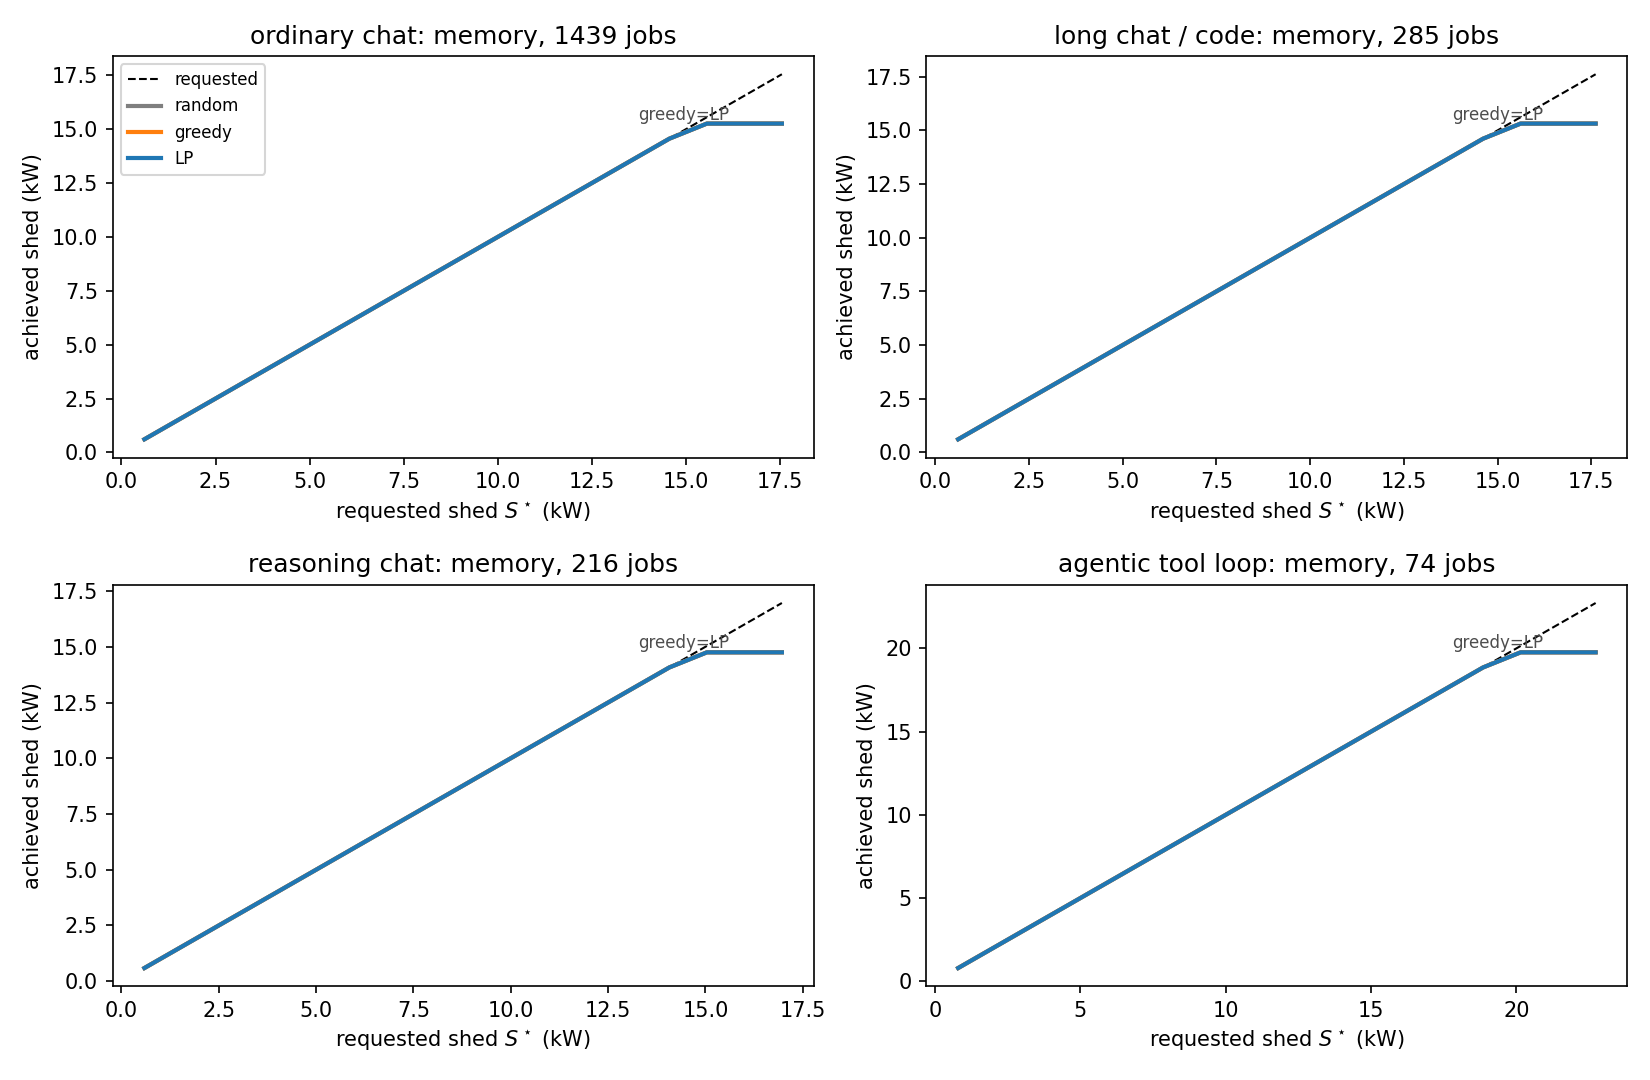
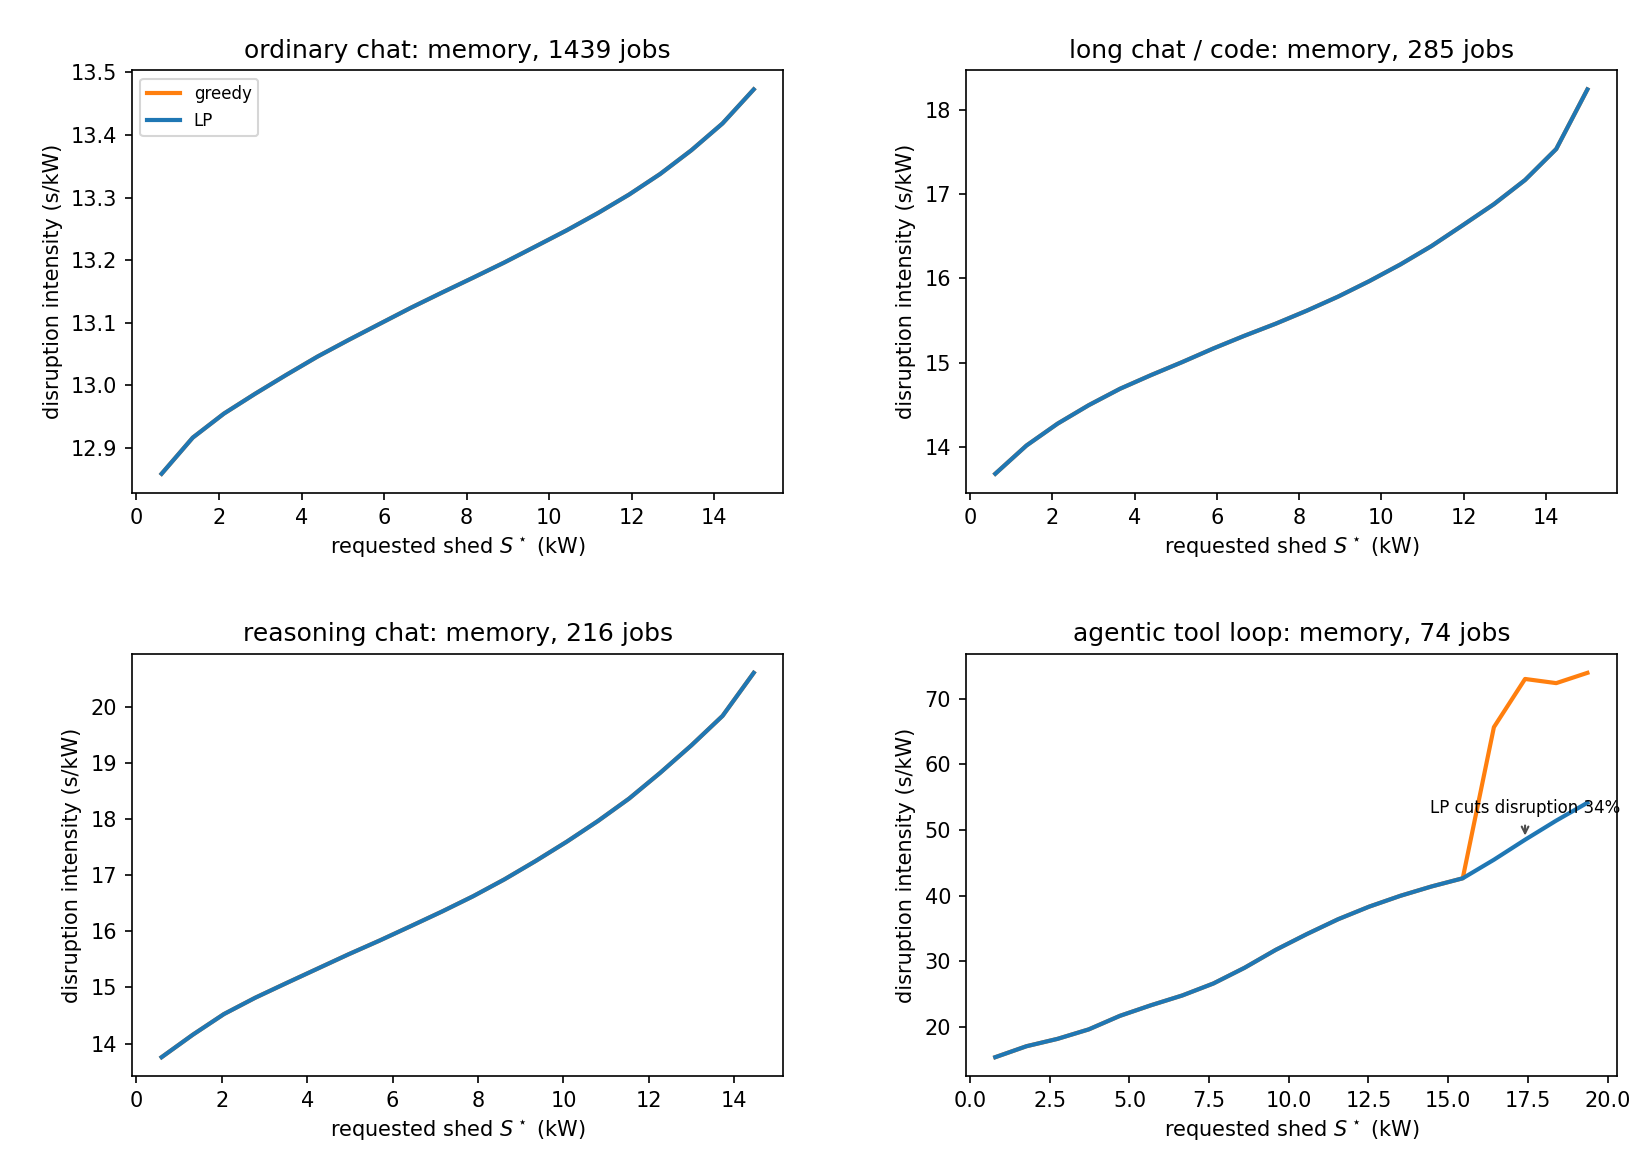
Normalize queue haul dispatch disruption

diff --git a/agent-migrate/queue-haul/plot_dispatch_validation.py b/agent-migrate/queue-haul/plot_dispatch_validation.py
@@ -1,9 +1,9 @@
 """Dispatch validation by workload class.
 
-Each panel isolates one active, cache-resident session class. The policies see
-the same movement budgets: random, decentralized greedy, and coordinated LP.
-The plot is a sanity check: after fallback accounting, ceiling gaps should only
-appear when shared-resource packing, not a partial-action artifact, limits greedy.
+Each panel isolates one active, cache-resident session class. Greedy and LP see
+the same movement budgets. The y-axis is aggregate downtime normalized by the
+requested certified shed, i.e. seconds of disruption per kW. Achieved-shed curves
+can hide the objective value whenever both policies meet the same target.
 """
 
 import os
@@ -15,14 +15,13 @@ matplotlib.use("Agg")
 import matplotlib.pyplot as plt
 import numpy as np
 
-from dispatch import Event, bind_dp, greedy, random_dispatch, solve
+from dispatch import Event, bind_dp, greedy, solve
 from impact import Movement, compute
 from instance import _mean_T, class_workload, generate
 from power import PoolPower
 
 EVENT = Event(dest_nodes=48, W=16)
 MOVE = Movement()
-SEEDS = range(4)
 N_NODES = 4
 CASES = (
     ("ordinary chat", "ordinary_chat"),
@@ -39,42 +38,46 @@ def case(label, cls):
     imp = compute(pop, pool)
     dp = bind_dp(imp)
     lp_ceil = solve(pop, pool, imp, 2 * dp.sum(), EVENT, MOVE).shed_guaranteed
-    S = np.linspace(0.04, 1.15, 18) * lp_ceil
+    S = np.linspace(0.04, 0.98, 20) * lp_ceil
     lp = [solve(pop, pool, imp, s, EVENT, MOVE) for s in S]
     gr = [greedy(pop, pool, imp, s, EVENT, MOVE) for s in S]
-    rd = [[random_dispatch(pop, pool, imp, s, EVENT, MOVE, seed=sd) for sd in SEEDS] for s in S]
-    return label, pop, imp, S, lp, gr, np.array([[p.shed_guaranteed for p in row] for row in rd]) / 1e3
+    return label, pop, imp, S, lp, gr
 
 
 results = [case(*c) for c in CASES]
 
 kW = 1e3
-fig, axs = plt.subplots(2, 2, figsize=(11, 7.2), sharex=False, sharey=False)
-for ax, (label, pop, imp, S, lp, gr, r_shed) in zip(axs.ravel(), results):
-    lp_ceil = max(p.shed_guaranteed for p in lp)
-    g_ceil = max(p.shed_guaranteed for p in gr)
-    ax.plot(S / kW, S / kW, "k--", lw=1, label="requested")
-    ax.fill_between(S / kW, r_shed.min(1), r_shed.max(1), color="tab:gray", alpha=0.2)
-    ax.plot(S / kW, r_shed.mean(1), color="tab:gray", lw=2, label="random")
-    ax.plot(S / kW, [p.shed_guaranteed / kW for p in gr], color="tab:orange", lw=2, label="greedy")
-    ax.plot(S / kW, [p.shed_guaranteed / kW for p in lp], color="tab:blue", lw=2, label="LP")
-    xg = 0.92 * S.max() / kW
-    if lp_ceil - g_ceil > 0.5 * kW:
-        ax.annotate("", xy=(xg, lp_ceil / kW), xytext=(xg, g_ceil / kW),
-                    arrowprops=dict(arrowstyle="<->", color="0.3"))
-        ax.text(xg, (g_ceil + lp_ceil) / (2 * kW), "gap", fontsize=8, ha="center", va="center")
+fig, axs = plt.subplots(2, 2, figsize=(11, 7.8), sharex=False, sharey=False)
+for ax, (label, pop, imp, S, lp, gr) in zip(axs.ravel(), results):
+    lp_cost = np.array([p.cost if p.feasible else np.nan for p in lp])
+    gr_cost = np.array([p.cost if p.feasible else np.nan for p in gr])
+    lp_norm, gr_norm = lp_cost / (S / kW), gr_cost / (S / kW)
+    save = np.divide(gr_norm - lp_norm, gr_norm, out=np.zeros_like(gr_norm), where=gr_norm > 0)
+    ax.plot(S / kW, gr_norm, color="tab:orange", lw=2, label="greedy")
+    ax.plot(S / kW, lp_norm, color="tab:blue", lw=2, label="LP")
+    if np.nanmax(save) > 0.01:
+        i = int(np.nanargmax(save))
+        ax.annotate(f"LP cuts disruption {100 * save[i]:.0f}%",
+                    xy=(S[i] / kW, lp_norm[i]), xytext=(S[i] / kW, 0.72 * gr_norm[i]),
+                    arrowprops=dict(arrowstyle="->", color="0.3"), fontsize=8, ha="center")
     else:
-        ax.text(xg, lp_ceil / kW, "greedy=LP", fontsize=8, ha="right", va="bottom", color="0.3")
+        ax.text(0.60 * S.max() / kW, 0.55 * np.nanmax(gr_norm), "same sorted plan",
+                fontsize=8, ha="center", color="0.3")
     ax.set(title=f"{label}: {imp.regime}, {len(pop)} jobs",
-           xlabel="requested shed $S^\\star$ (kW)", ylabel="achieved shed (kW)")
+           xlabel="requested shed $S^\\star$ (kW)", ylabel="disruption intensity (s/kW)")
 axs[0, 0].legend(loc="upper left", fontsize=8)
 
-fig.tight_layout()
+fig.subplots_adjust(left=0.08, right=0.98, bottom=0.08, top=0.94, wspace=0.28, hspace=0.38)
 os.makedirs("outputs", exist_ok=True)
 for ext in ("pdf", "png"):
     fig.savefig(f"outputs/dispatch_validation.{ext}", dpi=150)
 
-for label, pop, imp, _, lp, gr, r_shed in results:
-    print(f"{label:16s} regime={imp.regime:6s} jobs={len(pop):4d} ceilings kW: "
-          f"random={r_shed.max():5.1f} greedy={max(p.shed_guaranteed for p in gr)/kW:5.1f} "
-          f"LP={max(p.shed_guaranteed for p in lp)/kW:5.1f}")
+for label, pop, imp, S, lp, gr in results:
+    lp_cost = np.array([p.cost for p in lp])
+    gr_cost = np.array([p.cost for p in gr])
+    lp_norm, gr_norm = lp_cost / (S / kW), gr_cost / (S / kW)
+    save = np.divide(gr_norm - lp_norm, gr_norm, out=np.zeros_like(gr_norm), where=gr_norm > 0)
+    i = int(np.nanargmax(save))
+    print(f"{label:16s} regime={imp.regime:6s} jobs={len(pop):4d} "
+          f"max disruption cut={100 * save[i]:4.1f}% at S*={S[i]/kW:4.1f} kW "
+          f"({gr_norm[i]:.1f}->{lp_norm[i]:.1f} s/kW)")

diff --git a/agent-migrate/queue-haul/FINDINGS.md b/agent-migrate/queue-haul/FINDINGS.md
@@ -72,13 +72,16 @@ infeasibility it re-solves to max-shed and reports the shortfall. `bind_dp` comm
 
 ### T5 — random vs greedy vs LP (`outputs/dispatch_validation.png`)
 
-Three policies under the same movement budgets, isolated by active, cache-resident session
-class. With budget-respecting fallback, the class-isolated **ceiling** gaps disappear:
-greedy and LP both reach the full class ceiling (**15.3, 15.3, 14.8, 19.8 kW** for
-ordinary chat, long chat/code, reasoning chat, and agentic tool loops). This plot is now
-mostly a sanity check. The earlier large agentic gap came from a baseline bug: greedy
-accepted a partial KV transfer instead of falling back to replay, even when replay could
-move the whole job.
+Two policies under the same movement budgets, isolated by active, cache-resident session
+class. The y-axis is **disruption intensity**: aggregate movement downtime divided by the
+requested certified shed (`s/kW`). This is the interpretable version of the LP objective:
+how many session-disruption seconds we spend per kW delivered.
+
+Ordinary chat, long chat/code, and reasoning chat collapse to the same sorted plan, so
+greedy and LP have the same disruption intensity. Agentic tool loops are the useful case:
+both policies meet the same certified power target, but LP cuts disruption intensity by
+up to **33.5%** at **17.4 kW** (`73.0 → 48.5 s/kW`) by choosing the lower-disruption action
+mix under the shared movement budgets.
 
 ### T6 — certify low, report high (`outputs/certify_report_validation.png`)
 

diff --git a/agent-migrate/queue-haul/formulation.md b/agent-migrate/queue-haul/formulation.md
@@ -120,6 +120,8 @@ $\tau_*$ are one-time ramps (egress connection setup, prefill batch-form, ingest
 
 **Duals (shadow prices).** The LP returns $\theta_{\text{egress}}$ (watts per uplink byte — the value of the shared bottleneck) and $\theta_{\text{admit},\ell}$ = load-dual + held-dual per site (value of destination admission headroom) — the routing prices that say where the next watt of shed should go.
 
+**Reported disruption.** The solver minimizes aggregate session downtime. Plots report `cost / S*` in **seconds per certified kW** so comparisons are not driven by a larger requested shed or a larger synthetic population.
+
 **Baselines (`greedy`, `random_dispatch`).** Both are myopic single-pass first-fit drawing down the *same* five movement budgets:
 - **greedy** — decentralized **bang-per-buck**: jobs are considered best-deal-first by $\min(c_R,c_S)/\Delta P$ (seconds of downtime per watt). Each job tries its cheaper action, but if the alternate action fits more of the job under the remaining budgets, it takes the alternate. Equals the LP away from resource boundaries. When a gap appears, read it carefully: **MILP minus greedy** is deployable coordination; **LP minus MILP** is the fractional upper bound.
 - **random** — shuffle movable jobs, coin-flip the action: the floor any real policy should beat.
